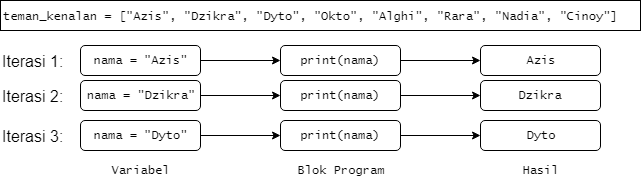
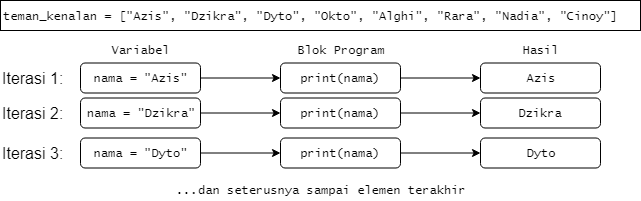
Fix image

diff --git a/Pekan 03. Struktur Kendali II/README.md b/Pekan 03. Struktur Kendali II/README.md
@@ -74,7 +74,7 @@ for nama in teman_kenalan:
 	print(nama)
 ~~~
 
-![](assets/Diagram for-1564330897979.png)
+![](assets/Diagram for.png)
 
 Sebagaimana dapat diamati dari grafik di atas, setiap iterasi mengubah konten dari variabel <code>nama</code> sesuai dengan posisi dari urutan yang ditempuh. Pada perjalanan iterasi pertama, variabel <code>nama</code> akan menggunakan data pada indeks paling awal (0); pada perjalanan iterasi kedua, variabel <code>nama</code> akan menggunakan data pada indeks setelahnya (1); dan seterusnya.
 
